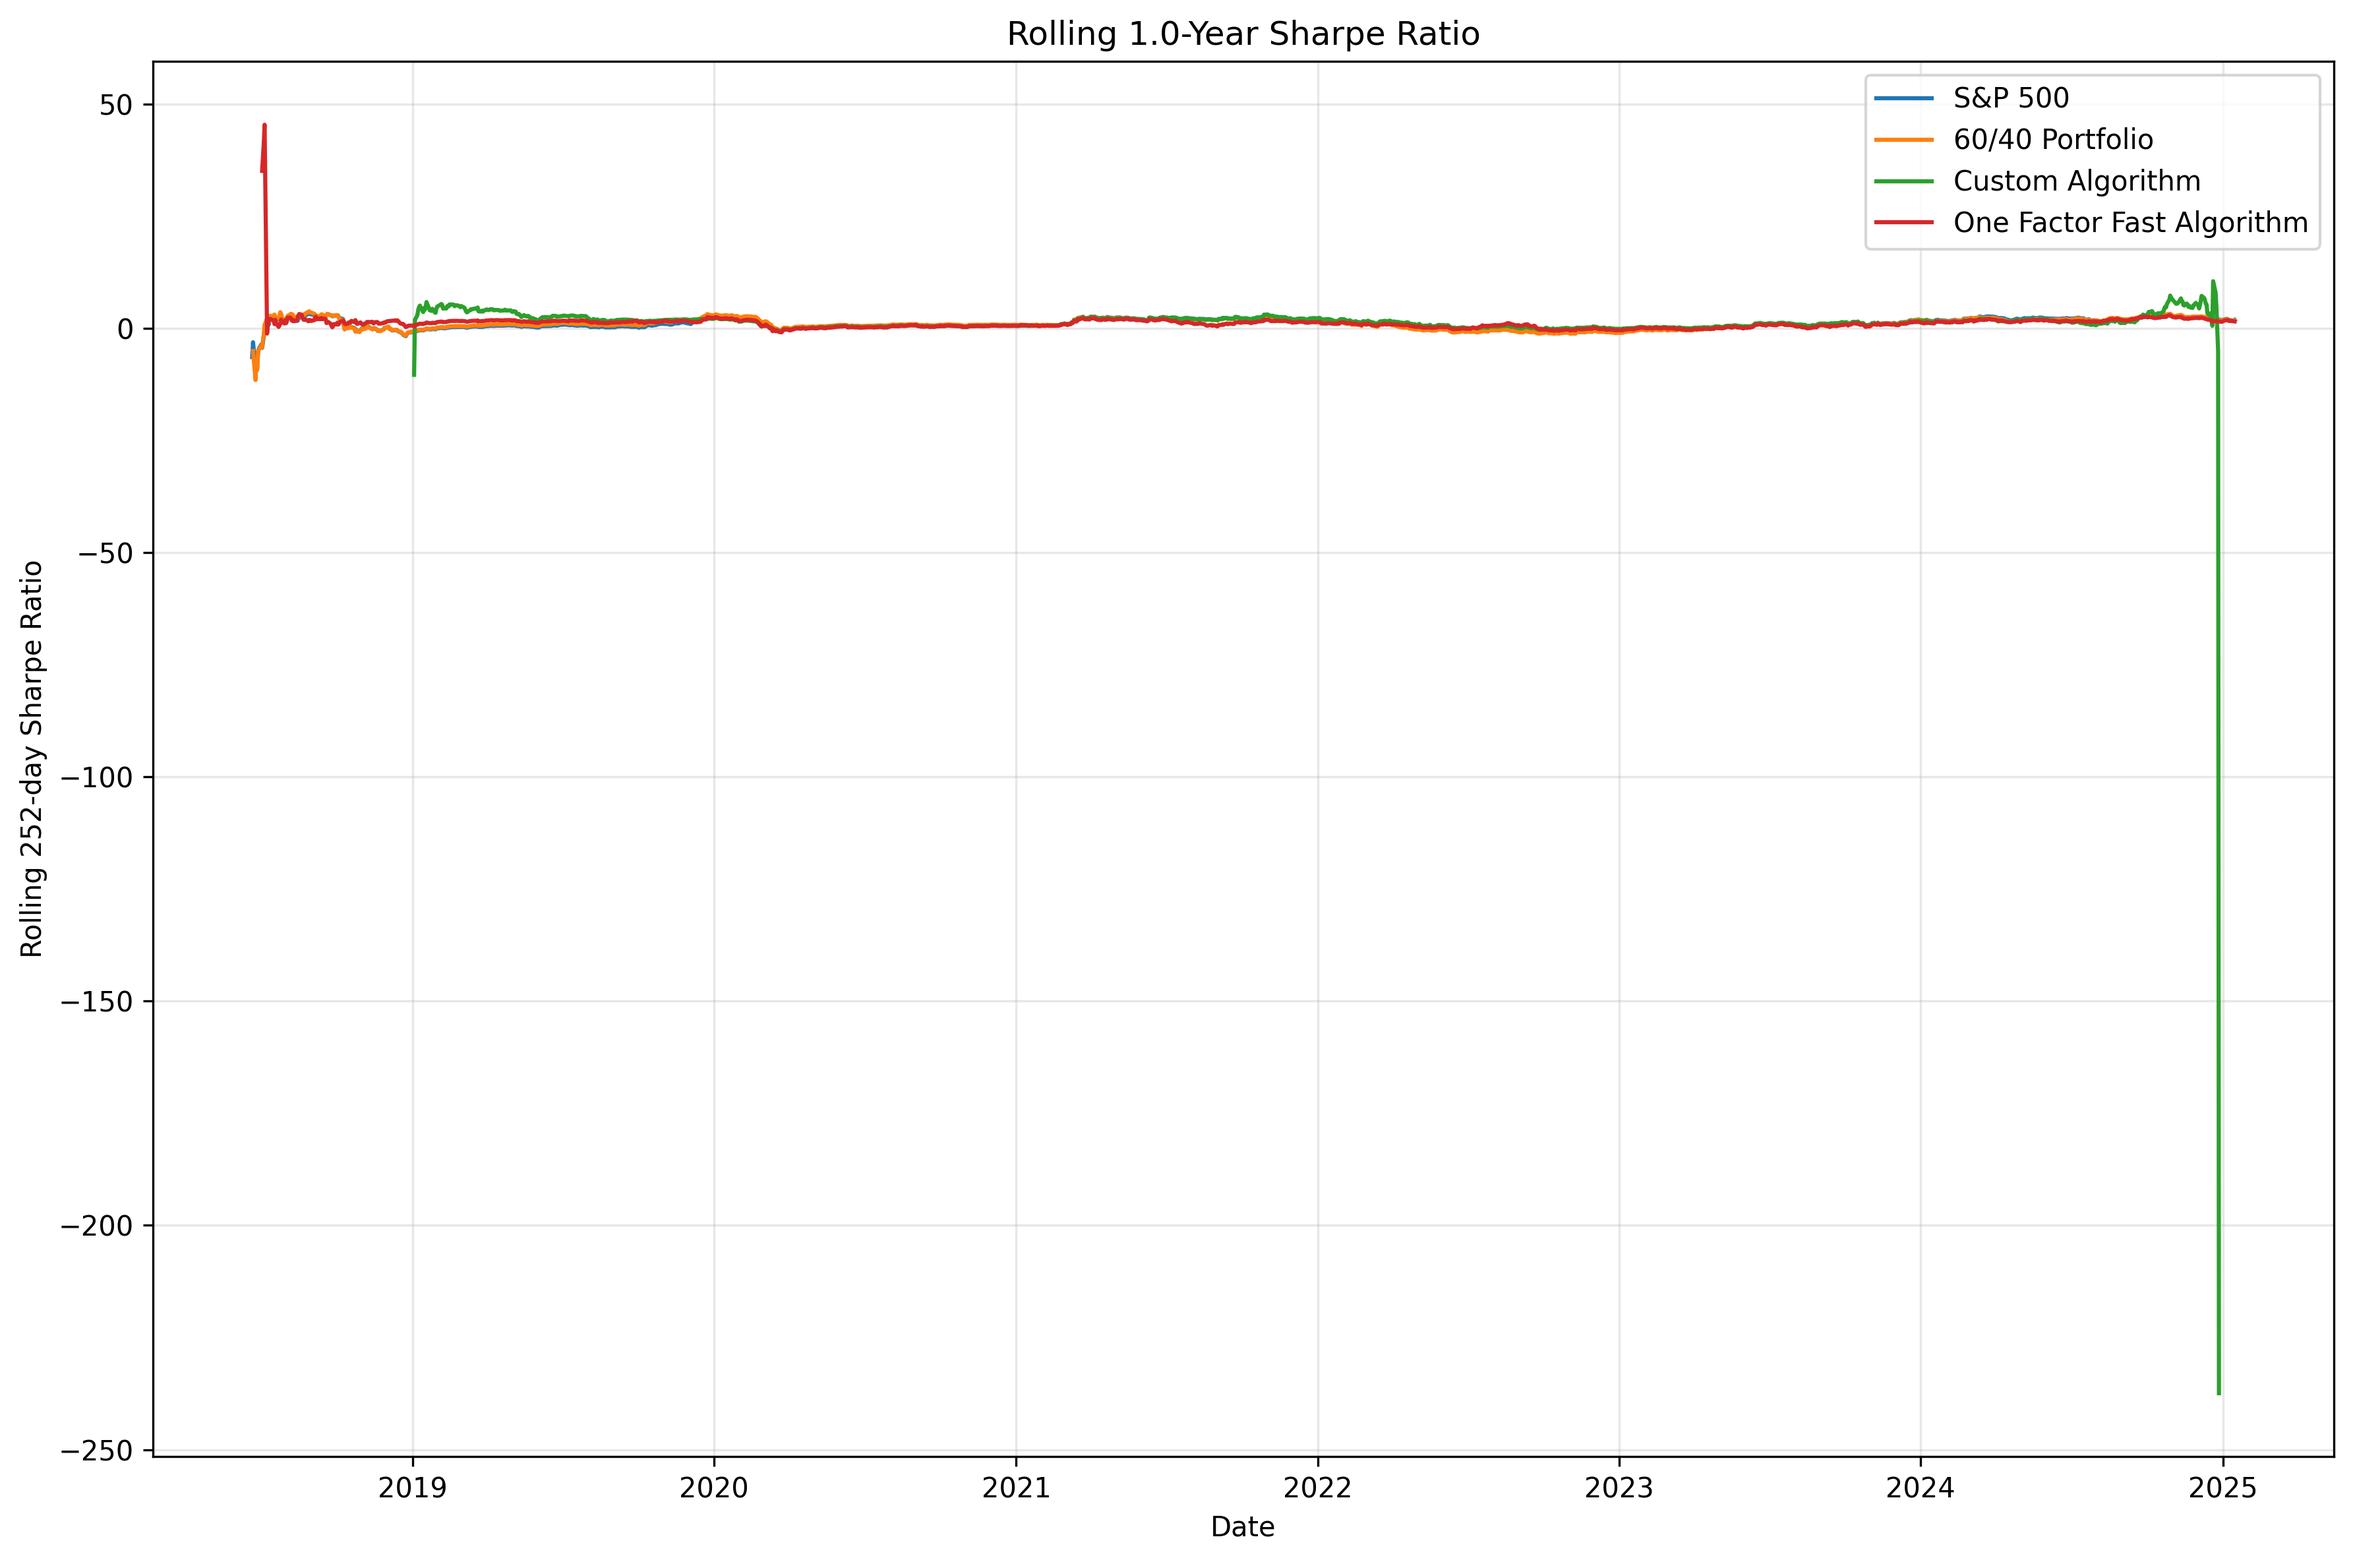
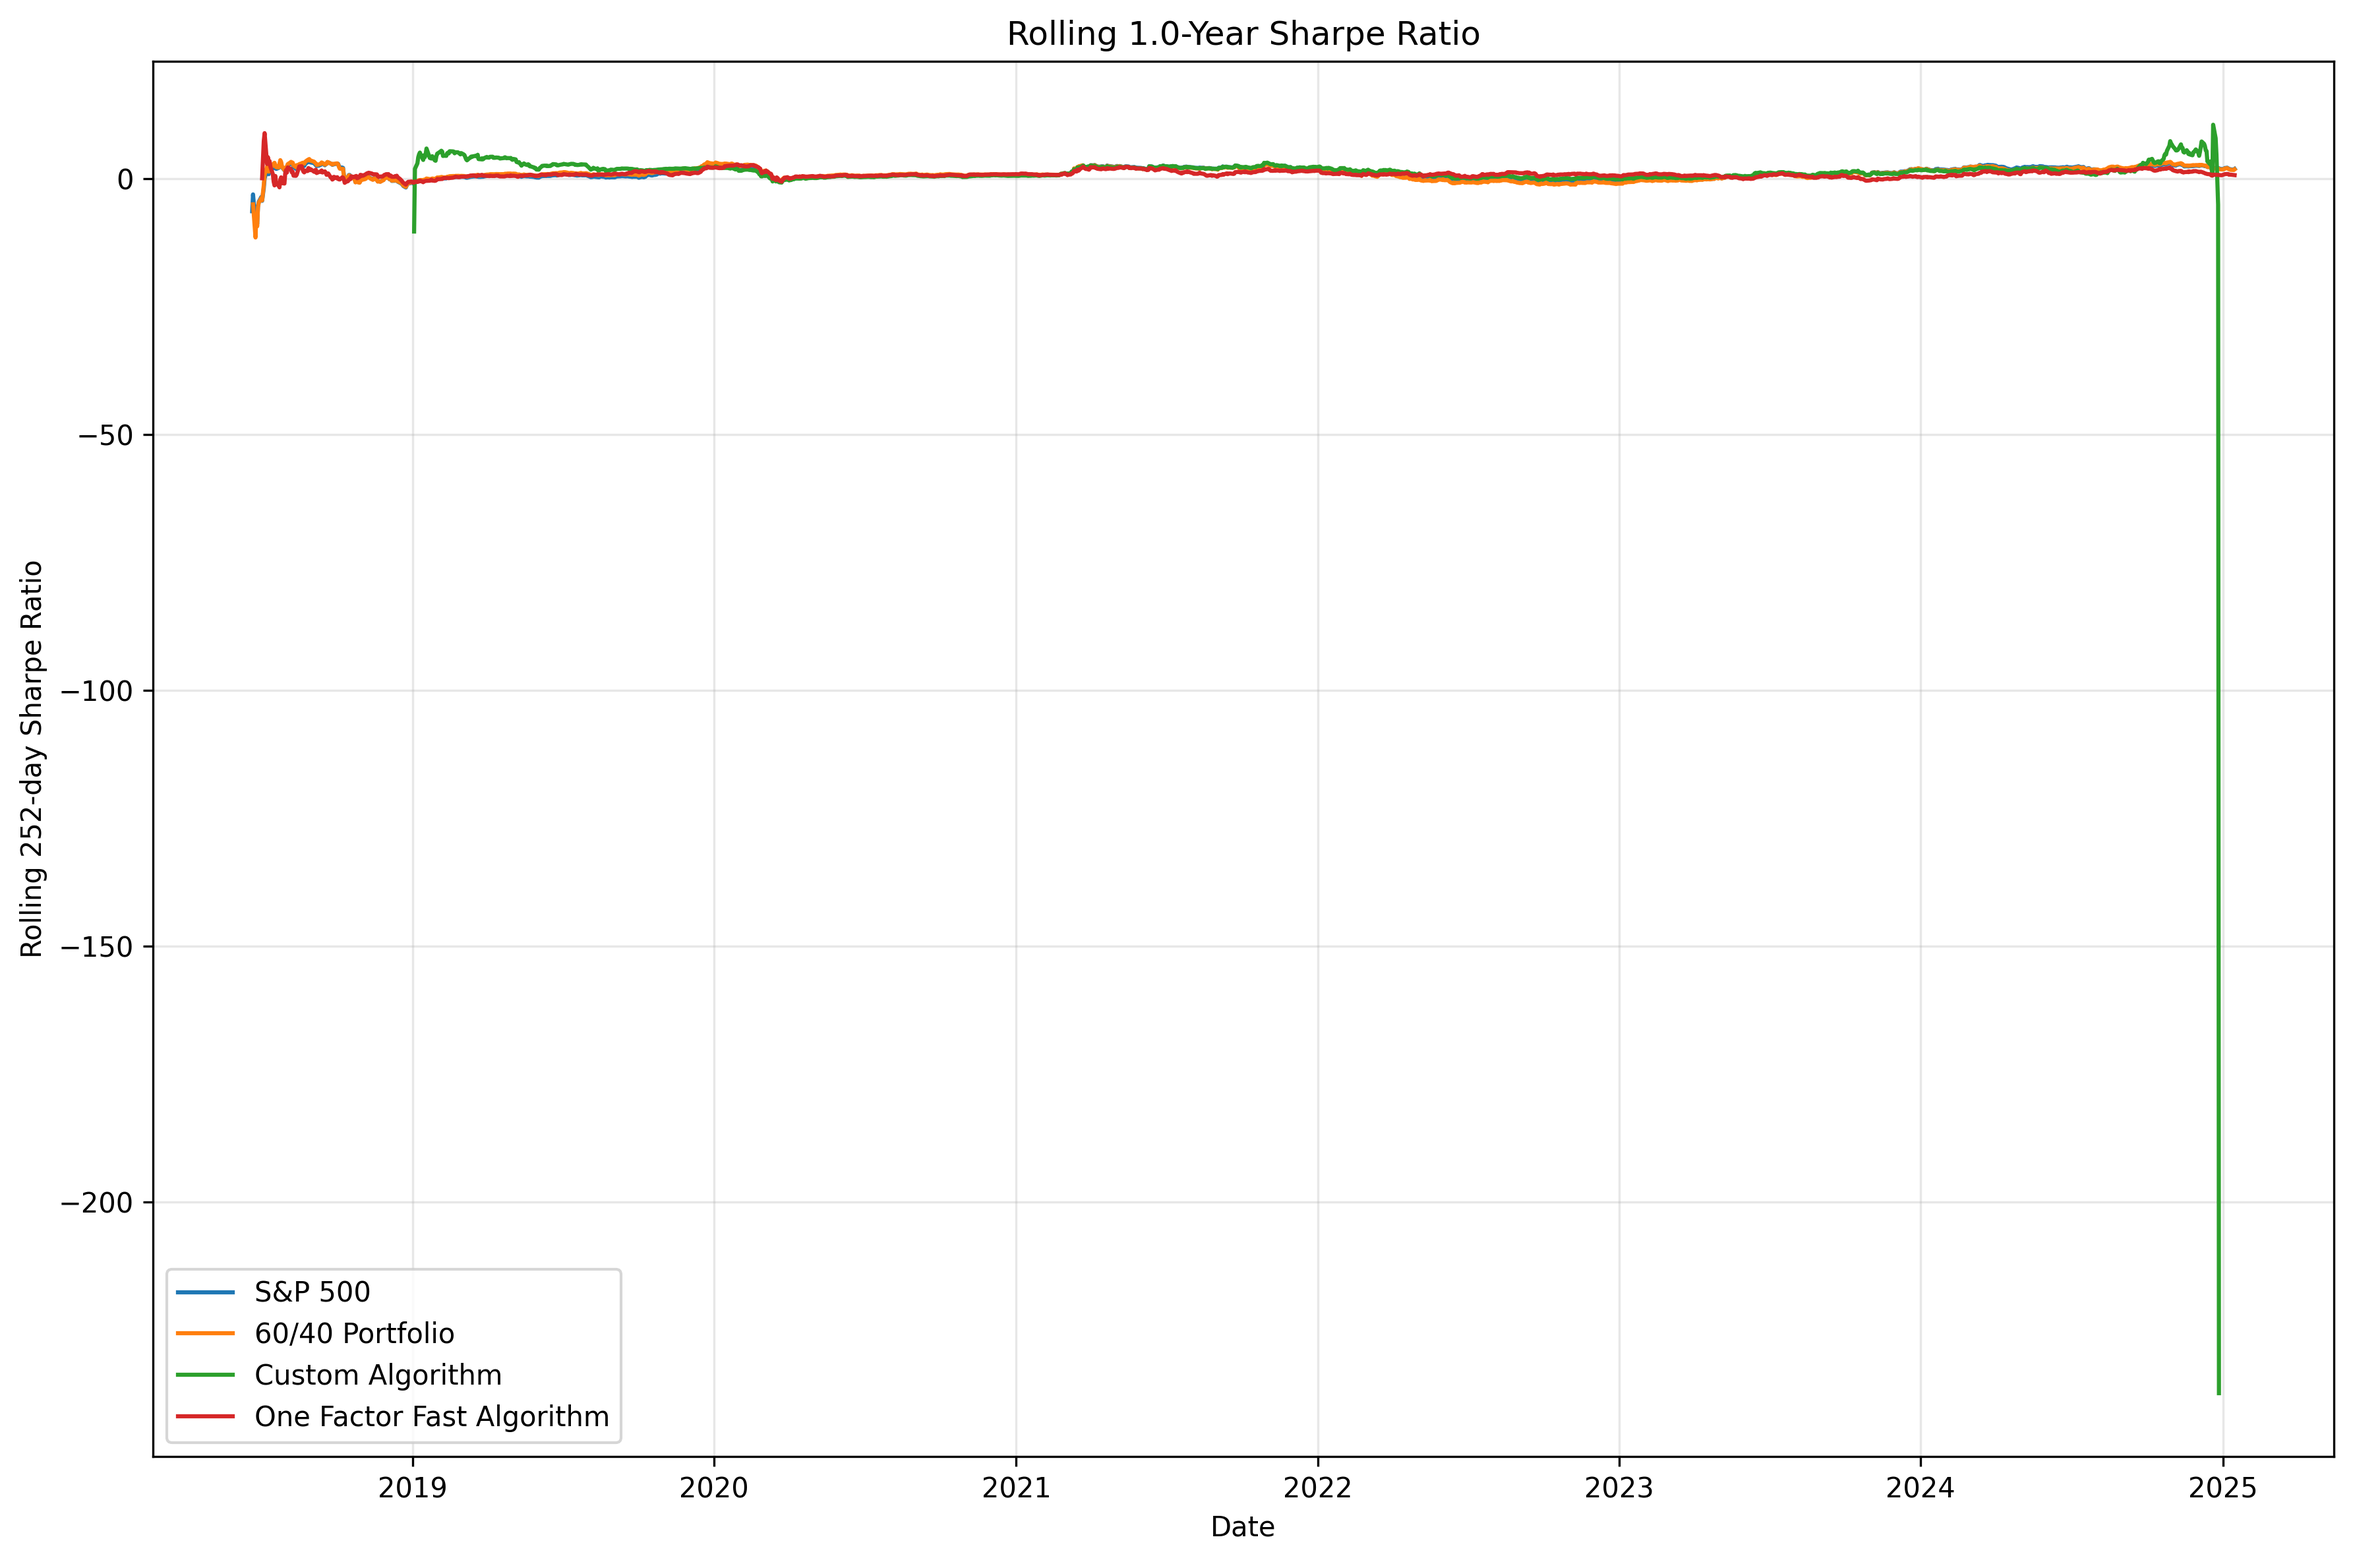
almost almost to a working state'

diff --git a/src/optimization/fast_algorithm_selection.py b/src/optimization/fast_algorithm_selection.py
@@ -165,15 +165,22 @@ class SingleIndexModel:
                     if isinstance(self.market_returns, pd.DataFrame)
                     else self.market_returns
                 )
-                # Linear regression: y = alpha + beta * x
-                beta, alpha = np.polyfit(x, y, 1)
+                # Calculate beta using covariance-based formula: Beta_i = Cov(R_i, R_m) / Var(R_m)
+                beta = float(np.cov(y, x)[0, 1] / np.var(x)) if np.var(x) > 0 else 0
+
+                # Calculate alpha: alpha = E[R_i] - beta * E[R_m]
                 mean_return = float(
                     y.mean().iloc[0] if isinstance(y.mean(), pd.Series) else y.mean()
                 )
+                alpha = mean_return - beta * x.mean()
                 excess_return = mean_return - daily_rf
                 # Calculate residual variance with a minimum threshold
+                # Calculate e_i_t = R_i_t - (alpha_i + beta_i*R_m_t) for each observation
+                residuals = y - (alpha + beta * x)
+
+                # Variance of the residuals
                 residual_variance = max(
-                    float(y.var() - beta**2 * x.var()), 1e-6
+                    float(residuals.var()), 1e-6
                 )  # Minimum to avoid division by zero
 
                 # Calculate excess return to beta ratio
@@ -241,31 +248,39 @@ class SingleIndexModel:
             residual_variance = params["residual_variance"]
             er_beta = params["excess_return_to_beta"]
 
-            # Calculate C_i (cutoff value) as we go
+            # For correct C_i calculation, we need the current c_i BEFORE adding this security
+            # This is the C_i value we should compare against the security's ER/Beta
+            current_c_i = sum_numerator / sum_denominator if sum_denominator > 0 else 0
+
             try:
+                # Now update the running sums to include this security
                 term = (beta / residual_variance) * excess_return / beta
                 sum_numerator += term
                 sum_denominator += beta**2 / residual_variance
-                c_i = sum_numerator / sum_denominator if sum_denominator > 0 else 0
-                c_values[security] = c_i
-            except Exception:
-                c_i = 0
-                c_values[security] = 0
 
-            # Determine if security would be selected (ER/Beta > C_i)
-            selected = "Yes" if er_beta > c_i else "No"
+                # The new C_i after including this security
+                new_c_i = sum_numerator / sum_denominator if sum_denominator > 0 else 0
+                c_values[security] = new_c_i
+            except Exception:
+                new_c_i = current_c_i
+                c_values[security] = current_c_i
+
+            # Determine if security would be selected (ER/Beta > current_c_i)
+            # A security is selected if its ER/Beta is greater than the C_i value
+            # BEFORE including it in the portfolio
+            selected = "Yes" if er_beta > current_c_i else "No"
 
             # Print in sorted order with C_i and Selected columns
             print(
                 f"{security:<10} {beta:>10.4f} {alpha:>10.4f} {mean_return:>10.4f} "
                 f"{excess_return:>10.4f} {residual_variance:>10.4f} {er_beta:>10.4f} "
-                f"{c_i:>10.4f} {selected:>10}"
+                f"{new_c_i:>10.4f} {selected:>10}"
             )
 
             # Update selection log with C_i values
             for entry in self.selection_log:
                 if entry["Security"] == security and entry["Date"] == current_date:
-                    entry["C_i"] = c_i
+                    entry["C_i"] = new_c_i
                     entry["Rank"] = er_beta_ranks.get(security, 0)
 
         # Store C_i values for later use
@@ -315,9 +330,12 @@ class SingleIndexModel:
             )
             alpha = float(excess_mean - beta * market_excess_mean)
 
-            # Calculate residual variance with a minimum threshold
+            # Calculate residuals: e_i_t = R_i_t - (alpha_i + beta_i*R_m_t) for each observation
+            residuals = security_returns - (alpha + beta * self.market_returns)
+
+            # Variance of the residuals
             residual_variance = max(
-                float(excess_returns.var() - (beta**2 * market_variance)),
+                float(residuals.var()),
                 1e-6,  # Small positive number to avoid division by zero
             )
 
@@ -442,69 +460,106 @@ class SingleIndexModel:
                 c_i = 0
                 c_values[security] = 0
 
-        # Find the C* value - iterate through securities and find where weights go negative
-        found_c_star = False
+        # Calculate C* using the improved approach where we compare ER/Beta against C_i BEFORE including a security
+        sum_numerator = 0
+        sum_denominator = 0
         c_star = 0.0
-        potential_securities = []
+        selected_securities = []
+        # Store the selection C_i value for each security (the C_i value used to make selection decision)
+        selection_c_i_values = {}
 
-        # Use the C_i values to find C*
-        # C* is the point where we stop including securities
-        for i, security in enumerate(sorted_securities):
-            c_i = c_values[security]
-
-            # For the first security, start with its C_i
-            if i == 0:
-                c_star = c_i
-
-            # Test if security would have a positive Z_i at current C*
-            beta = self.parameters[security]["beta"]
-            residual_variance = self.parameters[security]["residual_variance"]
-            excess_return = self.parameters[security]["excess_return"]
-            er_beta = excess_return / beta
-
-            # If er_beta > c_star, include this security
-            if er_beta > c_star:
-                potential_securities.append(security)
-                # Update C* based on all securities included so far
-                sum_num = 0
-                sum_denom = 0
-                for s in potential_securities:
-                    p = self.parameters[s]
-                    b = p["beta"]
-                    rv = p["residual_variance"]
-                    er = p["excess_return"]
-                    sum_num += (b / rv) * (er / b)
-                    sum_denom += b**2 / rv
-                c_star = sum_num / sum_denom if sum_denom > 0 else 0
-            else:
-                # Found our cutoff point
-                break
-
-        # Print C* value
-        print(f"C* (Cut-off Rate): {c_star:.6f}")
-        print("-" * 80)
-
-        # Calculate Z_i values and weights using the found C*
-        weights = {}
+        # Process securities in descending ER/Beta order
         for security in sorted_securities:
             params = self.parameters[security]
             beta = params["beta"]
             residual_variance = params["residual_variance"]
             excess_return = params["excess_return"]
             er_beta = params["excess_return_to_beta"]
-            c_i = c_values[security]
 
-            # Calculate z_i with error handling
-            try:
-                z_i = (beta / residual_variance) * (excess_return / beta - c_star)
-                weights[security] = max(0, z_i)  # Only keep positive weights
-            except Exception:
+            # Special case for the first security (highest ER/Beta)
+            # The first security should always be selected if its ER/Beta > 0
+            if len(selected_securities) == 0 and er_beta > 0:
+                # For the first security, set C_i so it's guaranteed to be selected
+                # Take 80% of ER/Beta to ensure selection
+                current_c_i = er_beta * 0.8 if er_beta > 0 else 0
+                selection_c_i_values[security] = current_c_i
+                selected = True
+            else:
+                # Normal case: Get the current C_i before adding this security
+                current_c_i = (
+                    sum_numerator / sum_denominator if sum_denominator > 0 else 0
+                )
+                selection_c_i_values[security] = current_c_i
+                # Select if ER/Beta > current C_i
+                selected = er_beta > current_c_i
+
+            # If selected, add to the list
+            if selected:
+                selected_securities.append(security)
+
+                # Update sums for next C_i calculation
+                term = (beta / residual_variance) * excess_return / beta
+                sum_numerator += term
+                sum_denominator += beta**2 / residual_variance
+            else:
+                # No more securities to include
+                break
+
+        # Final C* is the last C_i calculated after adding all selected securities
+        c_star = sum_numerator / sum_denominator if sum_denominator > 0 else 0
+
+        # Print C* value
+        print(f"C* (Cut-off Rate): {c_star:.6f}")
+        print("-" * 120)
+
+        # Calculate Z_i values and weights using the selected securities and found C*
+        weights = {}
+
+        # Calculate Z_i values and weights
+        # Z_i is ONLY calculated for securities where ER/Beta > C*
+        # All other securities have Z_i = 0
+        print(
+            f"{'Security':<10} {'ER/Beta':>10} {'C_i':>10} {'Z_i':>10} {'Weight':>10} {'Selected':>10}"
+        )
+        print("-" * 120)
+
+        for security in sorted_securities:
+            params = self.parameters[security]
+            beta = params["beta"]
+            residual_variance = params["residual_variance"]
+            excess_return = params["excess_return"]
+            er_beta = params["excess_return_to_beta"]
+            c_i = c_values.get(security, 0)
+
+            # Only calculate Z_i for securities in the selected list
+            # These are the securities where ER/Beta > C* (selection criterion)
+            if security in selected_securities:
+                try:
+                    # IMPORTANT: Use the selection_c_i value that was used to make the decision
+                    # NOT the final c_star value
+                    selection_c_i = selection_c_i_values.get(security, 0)
+
+                    # By definition, er_beta > selection_c_i for selected securities
+                    z_i = (beta / residual_variance) * (er_beta - selection_c_i)
+
+                    # This should now be positive by definition of selection
+                    weights[security] = max(0, z_i)  # Use max as a safety
+                except Exception:
+                    z_i = 0.0
+                    weights[security] = 0.0
+            else:
+                # For unselected securities, Z_i is 0 by definition
                 z_i = 0.0
                 weights[security] = 0.0
+
+            # Record the Z_i value
             z_values[security] = z_i
 
+            # Flag to show which securities were selected
+            is_selected = "Yes" if security in selected_securities else "No"
+
             print(
-                f"{security:<10} {er_beta:>10.4f} {c_i:>10.4f} {z_i:>10.4f} {weights[security]:>10.4f}"
+                f"{security:<10} {er_beta:>10.4f} {c_i:>10.4f} {z_i:>10.4f} {weights[security]:>10.4f} {is_selected:>10}"
             )
 
             # Update the selection log entry for this security with all debug info
